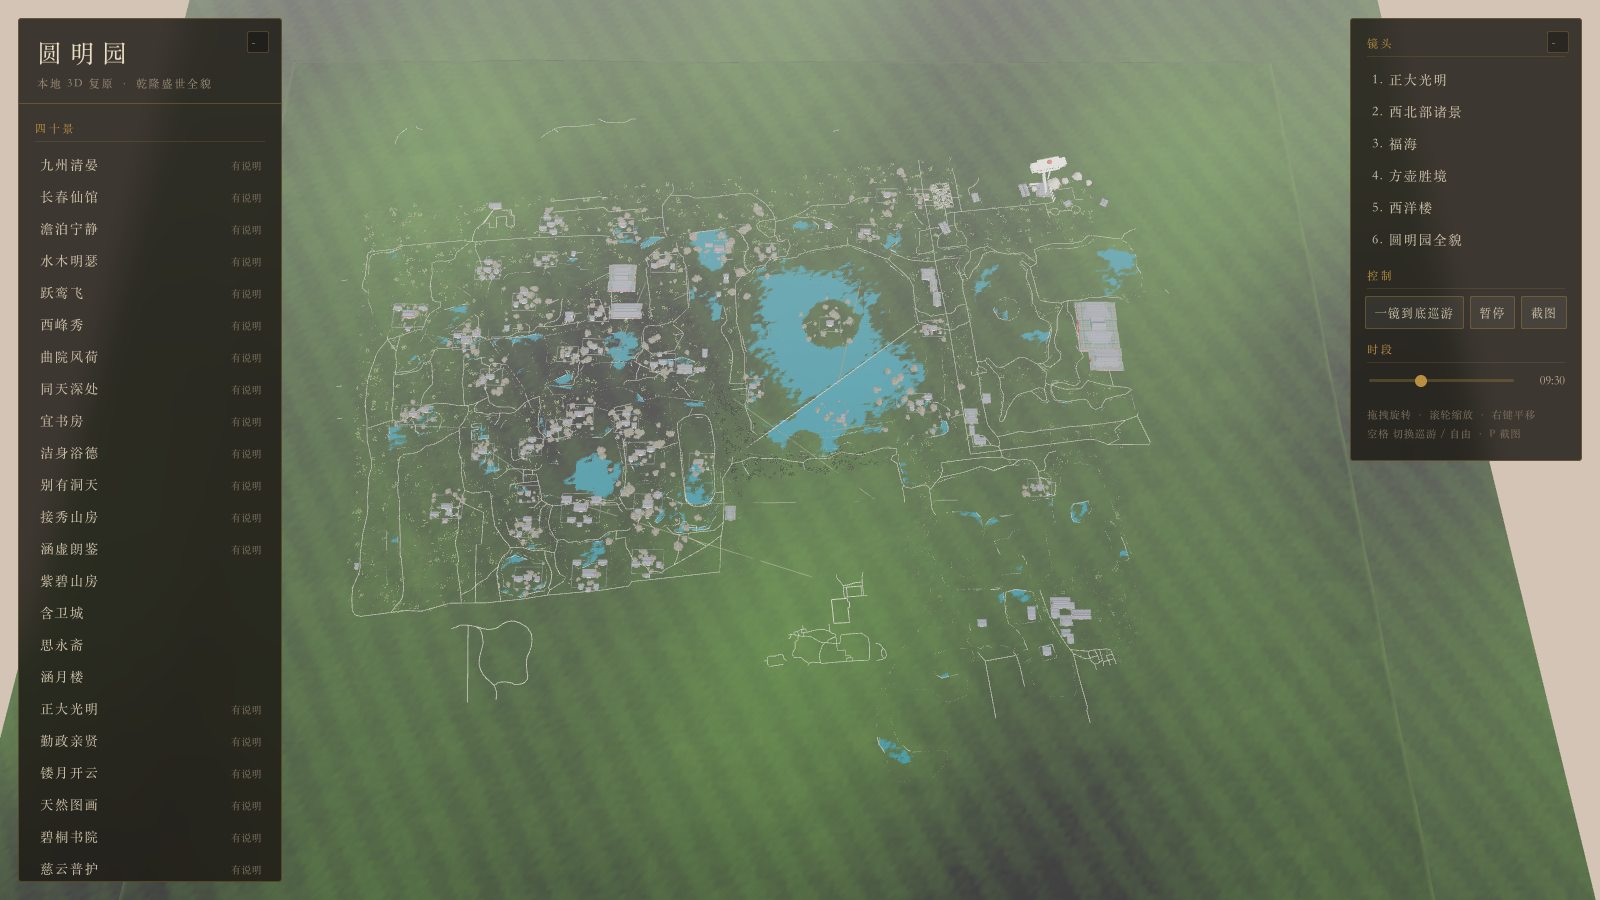
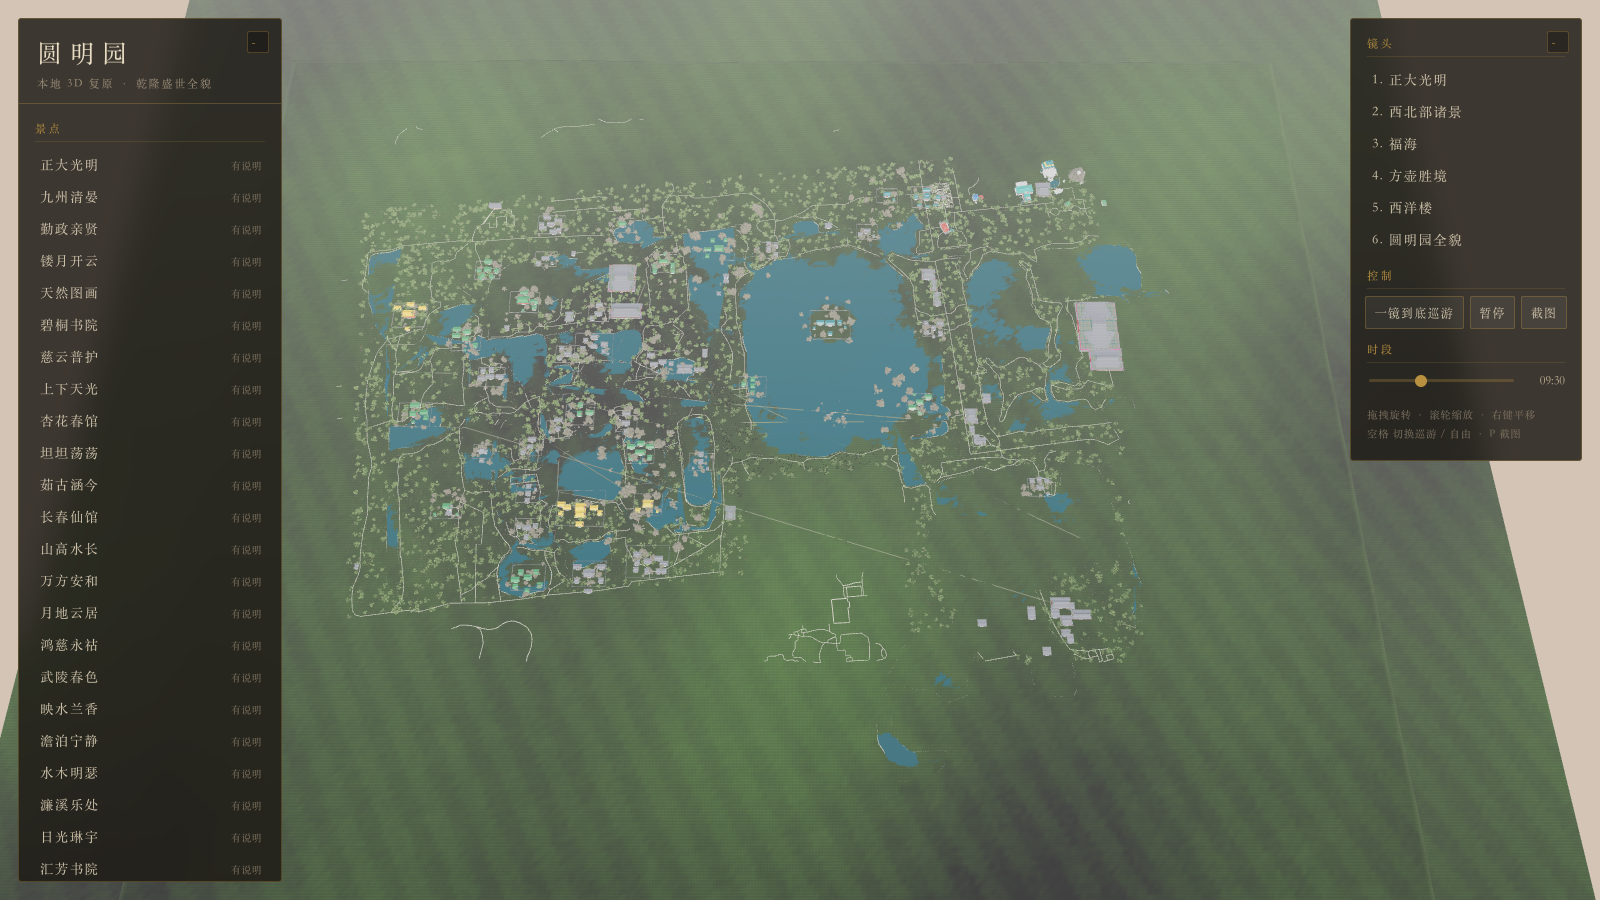
fix(地形): 顶点色抖动改用整数哈希；补验收截图脚本与新基线
sin(x*12.9898) 这种大数伪随机在 x 上千之后精度掉光，输出会沿网格形成规则条纹。
换成整数哈希（imul + 移位混淆），与坐标量级无关。

另：俯视图上大面积的斜向条纹经查是 DEM 的真实地形起伏（园西北是山地），
不是渲染缺陷。

新增 scripts/shots.sh 一键重出 docs/screenshots（带 loading 屏重试）。

diff --git a/src/scene/terrain.js b/src/scene/terrain.js
@@ -60,10 +60,13 @@ export function buildTerrain(sceneData, opts = {}) {
       Math.sin((x + z) * 0.0026) * 0.6;
     tmp.offsetHSL(low * 0.012, low * 0.05, low * 0.055);
 
-    // 高频抖动：打散 8bit 量化造成的等高线色带（用哈希噪声，避免规律摩尔纹）
-    const jit =
-      (Math.sin(x * 12.9898 + z * 78.233) * 43758.5453) % 1;
-    const n = jit * 0.022;
+    // 高频抖动：打散 8bit 量化造成的等高线色带。
+    // 用**整数哈希**，不要用 sin 大数伪随机——sin(x*12.9898) 在 x 上千之后
+    // 精度掉光，输出变成沿网格的规则条纹，全园俯视就是一片斜向灯芯绒。
+    const hsh = (Math.imul(Math.round(x * 4), 374761393) +
+      Math.imul(Math.round(z * 4), 668265263)) | 0;
+    const j = Math.imul(hsh ^ (hsh >>> 13), 1274126177);
+    const n = (((j ^ (j >>> 16)) >>> 0) / 4294967296 - 0.5) * 0.044;
     tmp.offsetHSL(0, n * 0.5, n);
     colors[i * 3] = tmp.r;
     colors[i * 3 + 1] = tmp.g;

diff --git a/AGENTS.md b/AGENTS.md
@@ -50,6 +50,7 @@ X → 东     Z → 南     Y → 上
 | 某个景的建筑形制 / 解说词 | `src/scene/scenes-program.js` |
 | **某景的开间/屋顶/瓦色从哪来** | `data/research/architecture-notes.md`（考据摘录，逐条对应） |
 | 屋顶形式、举折、翼角、重檐、卷棚歇山 | `src/scene/buildings/parts/roof.js` |
+| 西洋楼各处的构件 | `src/scene/western-parts/`（materials / kit / fountain / hall + 每处一文件） |
 | 瓦色制度（黄/绿/孔雀绿/蓝/红琉璃…） | `src/scene/scenes-program.js` 的 `TILE_COLORS` |
 | 台基柱网额枋斗栱墙体 | `src/scene/buildings/parts/structure.js` |
 | 贴图（瓦垄/彩画/棂心/砖石） | `src/scene/buildings/textures.js` |
@@ -69,8 +70,11 @@ X → 东     Z → 南     Y → 上
 - 步道：全部合并成**一个** Mesh。
 - 院墙：分段贴地但**整院合并**成 2 个 Mesh（墙身 + 压顶）。
 - 改动后跑一次 `npm run dev`，看控制台里的 `draw calls` 与三角面数，
-  **当前基线：约 11.0M 三角面 / 486 draw calls；场景构建约 15~20s；
-  建筑 287 座（41 景 × 5~9 座，含考据实记的有名附属建筑）。**
+  **当前基线：全园 11.3M 三角面 / 572 draw calls（西洋楼在视野内时的实测值）；
+  场景构建约 4~8s；建筑 287 座（41 景 × 5~9 座，含考据实记的有名附属建筑）
+  + 西洋楼 8 处。**
+  ⚠ 控制台的三角面/draw call 只统计**当前视野内**渲染的对象，
+  换个视角数字就变——比性能要拿同一视角比。
   数量级突变要查清楚原因（合并丢失是最常见的原因）。
 
 ## 4.1 视觉保真度是硬要求

diff --git a/README.md b/README.md
@@ -45,6 +45,7 @@ HF_HUB_DISABLE_XET=1 .venv-ai/bin/python scripts/gen-textures.py
 | `?view=close&name=<景名>` | 该景近景（查构件细节） |
 | `?view=plan&name=<景名>` | 该景正俯视（查平面形制，如卍字/田字） |
 | `?view=garden` | 福海西岸望对岸 |
+| `?view=west` / `west2` / `west3` / `west4` | 西洋楼：大水法全景 / 海晏堂生肖 / 远瀛观 / 整片西洋楼 |
 
 俯视诊断图：`python3 scripts/plan-view.py && ffmpeg -i public/scene/plan.ppm public/scene/plan.png`。
 
@@ -73,7 +74,9 @@ src/
     trees.js      树木：递归枝干 + alpha 贴图树冠，按树种×变体实例化
     ground.js     草土地面贴图 + OSM 步道 + 水岸驳岸
     layout.js     装配：现状建筑 + 四十景聚落 + 西洋楼
-    western.js    西洋楼欧式建筑与大水法喷泉群
+    western.js    西洋楼总装（按考据重做的巴洛克石构建筑群）
+    western-parts/ 西洋楼构件库：materials 材质表 / kit 通用构件 /
+                   fountain 池与喷泉 / hall 殿宇框架 + 每处建筑一文件
     scenes-program.js  ★ 逐景考证配置表（含瓦色制度与特殊平面）
     buildings/merge.js  按材质整景合并几何（控制 draw call）
     camera-tour.js 一镜到底巡游样条
